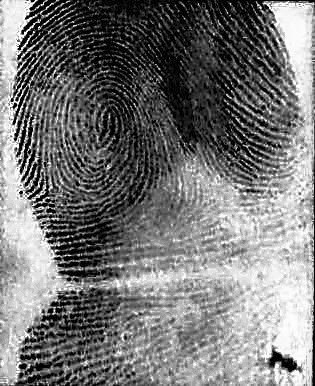
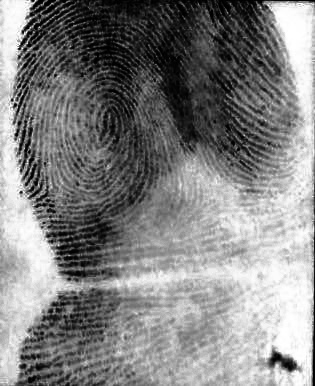
:construction: building

diff --git a/blurry/blurry.py b/blurry/blurry.py
@@ -1,9 +1,9 @@
 
-# Importing the OpenCV, Numpy and Matplotlib libraries
+# Importing the libraries
 import cv2
 import numpy as np
-import matplotlib.pyplot as plt
-  
+
+# Reading the image from the disk using cv2.imread() function
 img_input = cv2.imread('zira.jpeg')
   
 # Apply kernel for sharpening
@@ -11,9 +11,15 @@ sharp_kernel = np.array([[0, -1, 0],
                     [-1, 5, -1],
                     [0, -1, 0]])
   
+# Sharpeneded image is obtained using the variable sharp_img
+# cv2.fliter2D() is the function used
+# src is the source of image(here, img)
+# ddepth is destination depth. -1 will mean output image will have same depth as input image
+# kernel is used for specifying the kernel operation (here, sharp_kernel)
+
 img_sharp = cv2.filter2D(src=img_input, ddepth=-1, kernel=sharp_kernel)
 
-
+# display both picture before and after 
 cv2.imwrite('After.jpg',img_sharp)
 
 cv2.imshow('Before', img_input)

diff --git a/grainy/grainy.py b/grainy/grainy.py
@@ -1,13 +1,18 @@
-# Importing the OpenCV, Numpy and Matplotlib libraries
+# Importing the libraries 
 import cv2
 import numpy as np
-import matplotlib.pyplot as plt
 
 # Reading image from folder where it is stored
 img_input = cv2.imread('zira.jpg', cv2.IMREAD_UNCHANGED)
   
 # Denoising of image saving it into dst image
 dst = cv2.fastNlMeansDenoisingColored(img_input, None, 10, 10, 7, 15)
+# img_input – Source Image Array
+# None – Destination Image Array
+# 10 – Size in pixels of the template patch that is used to compute weights.
+# 10 - Size in pixels of the window that is used to compute a weighted average for the given pixel.
+# 7 - Parameter regulating filter strength for luminance component.
+# 15 - Same as above but for color components // Not used in a grayscale image.
 
 # Display the images
 cv2.imwrite('After.jpg',dst)

diff --git a/underexposed/underexposed.py b/underexposed/underexposed.py
@@ -1,7 +1,11 @@
+# Importing the libraries
 import numpy as np
 import cv2 as cv
 
+# Reading the image from the disk using cv2.imread() function
 img_input = cv.imread('thumbprint.jpg')
+
+# Change the colour of the image 
 img_yuv = cv.cvtColor(img_input, cv.COLOR_BGR2YUV)
 
 # equalize the histogram of the Y channel
@@ -10,6 +14,7 @@ img_yuv[:,:,0] = cv.equalizeHist(img_yuv[:,:,0])
 # convert the YUV image back to RGB format
 img_output = cv.cvtColor(img_yuv, cv.COLOR_YUV2BGR)
 
+# display both picture before and after
 cv.imwrite('After.jpg', img_output)
 
 cv.imshow('Before', img_input)

diff --git a/overexposed/overexposed.py b/overexposed/overexposed.py
@@ -1,15 +1,18 @@
+# Importing the libraries
 import cv2 as cv
-import matplotlib.pyplot as plt
 
+# Reading the image from the disk using cv2.imread() function
 img_input = cv.imread('thumbprint.jpg', cv.IMREAD_UNCHANGED)
 
-img = cv.cvtColor(img, cv.COLOR_BGR2GRAY)
+# Change the colour of the image 
+img = cv.cvtColor(img_input, cv.COLOR_BGR2GRAY)
 
+# Histogram equalization 
 dst = cv.equalizeHist(img)
 
+# display both picture before and after 
 cv.imwrite('After.jpg', dst)
 
-# display the images
 cv.imshow('Before', img_input)
 cv.imshow('After', dst)
 
